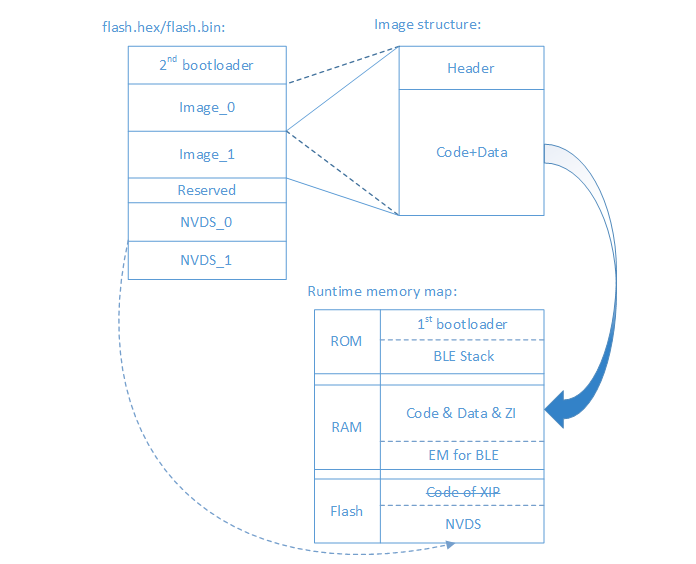
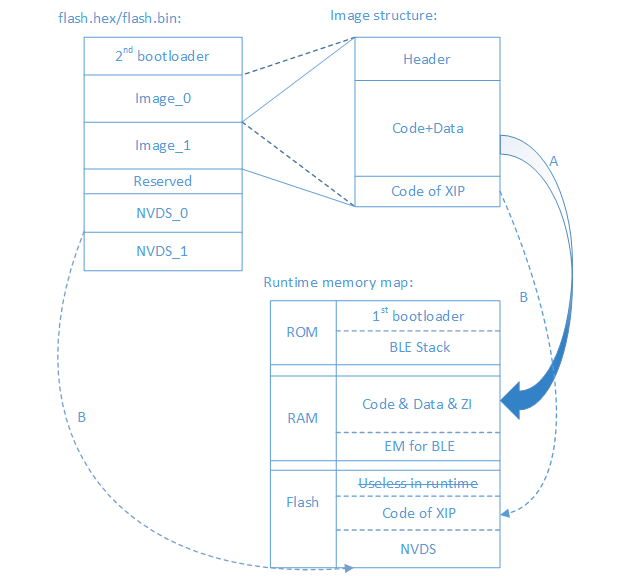
Modify boot in memory map

Changed region(s): [[0.0913, 0.0, 0.9439, 0.9947], [0.3349, 0.9344, 0.3654, 0.9645], [0.1218, 0.6933, 0.1522, 0.7234]]

diff --git a/getting_started/memory_map.rst b/getting_started/memory_map.rst
@@ -2,13 +2,17 @@
 ^^^^^^^^^^^^^^^^^^^^^^^^^^^
 BX2400的存储区域地址映射，需要从三个角度进行说明：Flash可执行文件的结构，Image结构和运行时地址映射。三者关系如下：
 
-.. image:: memory_map_img0.png
+    .. image:: memory_map_img0.png
+
+    - A:表示运行时，从Flash Image中复制到RAM中的代码段和数据段
+    
+    - B:表示运行时，留在Flash中，在运行时会被访问的代码和NVDS数据
 
 1. 存储空间介绍
 
     1. Flash可执行文件
         
-        Flash可执行文件指的是在在BX2400 SDK里编译链接，最后通过bin_merge生成的flash.hex/flash.bin，也是最终烧写入Flash中的二进制文件。如上图所示，包括Boot_in_ram, image0/image1和NVDS区域。
+        Flash可执行文件指的是在在BX2400 SDK里编译链接，最后通过bin_merge生成的flash.hex，也是最终烧写入Flash中的二进制文件。如上图所示，包括Boot_in_ram, image0/image1和NVDS区域。
 
          - 2nd bootloader: 表示BX2400启动的第二段流程（第一段软件启动流程1st bootloader在ROM里）可执行代码
 
@@ -62,7 +66,7 @@ BX2400的存储区域地址映射，需要从三个角度进行说明：Flash可
         |       |                     +------------+---------------------------+
         |       |                     | 0x60-0x80  |reserved                   |
         +-------+---------------------+------------+---------------------------+
-        | 0x80  | image code and data | 0x80-0x8c  |ISR Vector Table           |
+        | 0x80  | image code and data | 0x0-0x8c   |ISR Vector Table           |
         |       |                     +------------+---------------------------+
         |       |                     | 0x8c-0x100 |ROM Code Jump Table        |
         |       |                     +------------+---------------------------+
@@ -85,7 +89,7 @@ BX2400的存储区域地址映射，需要从三个角度进行说明：Flash可
          
          - Flash
          
-         Flash主要存储flash.hex/flash.bin，当RAM可以容纳所有用户软件/数据时，Flash在实际运行时不会有访问。只有当用户的软件/数据量无法完全塞入RAM中的时候，链接脚本才会将多余的代码放到Flash中去，此时CPU会通过Cache对Flash进行读操作
+         Flash主要存储flash.hex，当RAM可以容纳所有用户软件/数据时，Flash在实际运行时不会有访问。只有当用户的软件/数据量无法完全塞入RAM中的时候，链接脚本才会将多余的代码放到Flash中去，此时CPU会通过Cache对Flash进行读操作
 
         +-------------+-------------------+-------------------------+
         | Memory type | Address           | Description             |
@@ -104,19 +108,23 @@ BX2400的存储区域地址映射，需要从三个角度进行说明：Flash可
         +-------------+-------------------+-------------------------+
         |             |                   |                         |
         +-------------+-------------------+-------------------------+
-        | Flash       | 0x800000-         | Code for XIP            |
+        | Flash       | 0x800000-0x8XXXXX | Useless in runtime      |
+        |             +-------------------+-------------------------+
+        |             | 0x8XXXXX-         | Code for XIP            |
         |             +-------------------+-------------------------+
         |             |                   | Other contents in Flash |
         +-------------+-------------------+-------------------------+
 
 #. BX2400启动流程
 
+    .. image:: memory_map_img1.png
+
     BX2400的启动是从ROM开始，分为1st bootloader和2nd bootloader两部分。BX2400的Boot分为Boot from Flash和Boot from Uart两种，分别对应正常用户启动模式和量产模式。由于二者工作机制类似，此处重点介绍前者。
     
-    - 当IC上电时，CPU会自动运行1s bootloader，也就是ROM中起始地址之后的那一部分可执行代码。这部分代码里，会去检测Boot模式，以及对应IO的启动电压。假设此处检测到需要Boot from Flash，且电压为1.8V，bootloader会将Flash对应的IO电压配置为1.8V，之后尝试去Flash中一个固定的位置去读取2nd bootloader。如果读取不成功，会反复尝试从Flash boot；读取成功则将2nd bootloader读取入RAM中
+    - 1st step: 当IC上电时，CPU会自动运行1s bootloader，也就是ROM中起始地址之后的那一部分可执行代码。这部分代码里，会去检测Boot模式，以及对应IO的启动电压。假设此处检测到需要Boot from Flash，且电压为1.8V，bootloader会将Flash对应的IO电压配置为1.8V，之后尝试去Flash中一个固定的位置去读取2nd bootloader
     
-    - 当2nd bootloader读取到RAM中后，CPU会自动跳转到2nd bootloader处执行。2nd bootloader本身是一个完整的可执行文件，开始执行后，会找到RAM中Image中对应的地址，去读取Image的header结构，从中挑选出最新版本的Image，并读入RAM中
+    - 2nd step: 第一步1st bootloader读取2nd bootloader，如果不成功，会反复尝试从Flash boot；读取成功则将2nd bootloader读取入RAM中。当2nd bootloader读取到RAM中后，CPU会自动跳转到2nd bootloader处执行
     
-    - 在2nd bootloader执行完成后，CPU会跳转到读入RAM的用户Image处并开始执行，此时整个Boot流程完成
+    - 3rd step: 2nd bootloader本身是一个完整的可执行文件，开始执行后，会找到RAM中Image中对应的地址，去读取Image的header结构，从中挑选出最新版本的Image，并读入RAM中。在2nd bootloader执行完成后，CPU会跳转到读入RAM的用户Image处并开始执行，之后ROM/RAM/Flash里应该参与运行的代码和数据(图中红色部分)有可能被访问。此时整个Boot流程完成
     
     Boot from Uart的流程与此十分类似，唯一的不同是2nd bootloader不是从Flash中读取的，而是从Uart处接收到的，其他流程没有区别。当用户最终产品从上电开始运行时，进入的模式通常是Boot from Flash，而在产线上把用户代码烧写到Flash中去时，通常是Boot from Uart
